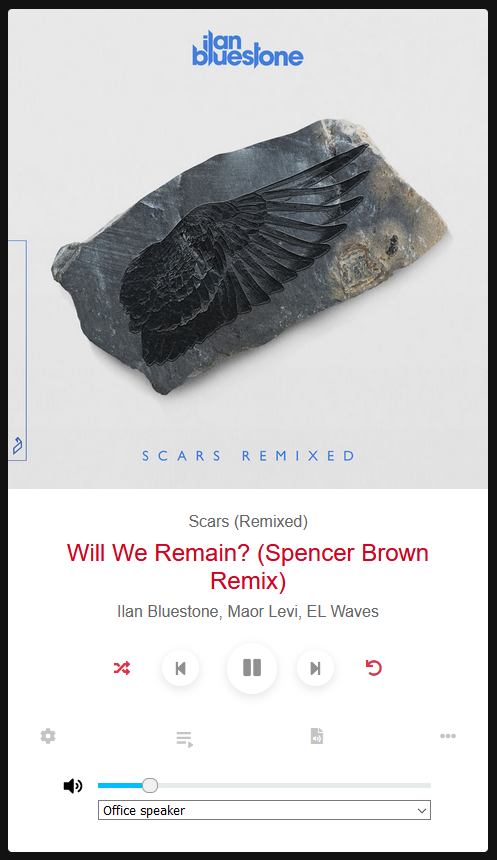
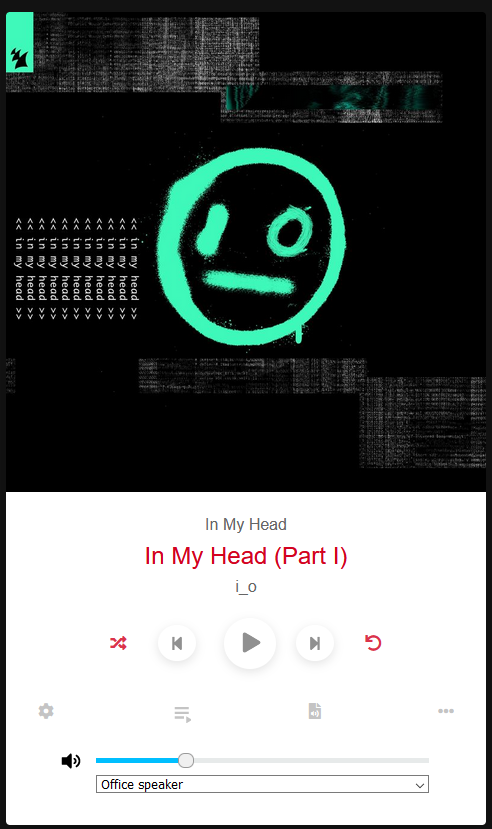
update screenshots

diff --git a/README.md b/README.md
@@ -19,11 +19,11 @@ If you are able and willing to translate to other languages, click [here](https:
 ## [Download (Windows)](https://github.com/elibroftw/music-caster/releases/latest)
 - [VirusTotal scan](https://www.virustotal.com/gui/file/cdc549d0ec0d40e7703e168723a452b90c282c2d461c56c10373bed770c919ae/detection)
 - [Developer Guide](https://github.com/elibroftw/music-caster/wiki/Developer-Guide)
+- [Screenshots](https://elijahlopez.herokuapp.com/music-caster/)
 
 ## Demo
-The image below directs to my demo video on YouTube.
-[Screenshots](https://elijahlopez.herokuapp.com/music-caster/) are also available.
-Both are outdated by 6+ months.
+The image below directs to my demo video on YouTube. Note that it is outdated by 6+ months, and does not represent
+the current state of Music Caster.
 
 <a href=https://youtu.be/MtkhqV1w3WE>
   <img width=75% src="https://img.youtube.com/vi/MtkhqV1w3WE/maxresdefault.jpg" alt="Demo on Youtube" align="center"/>
